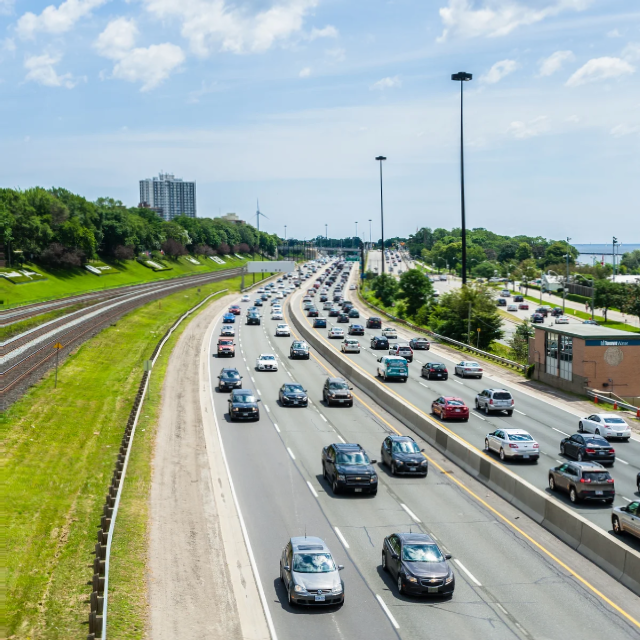
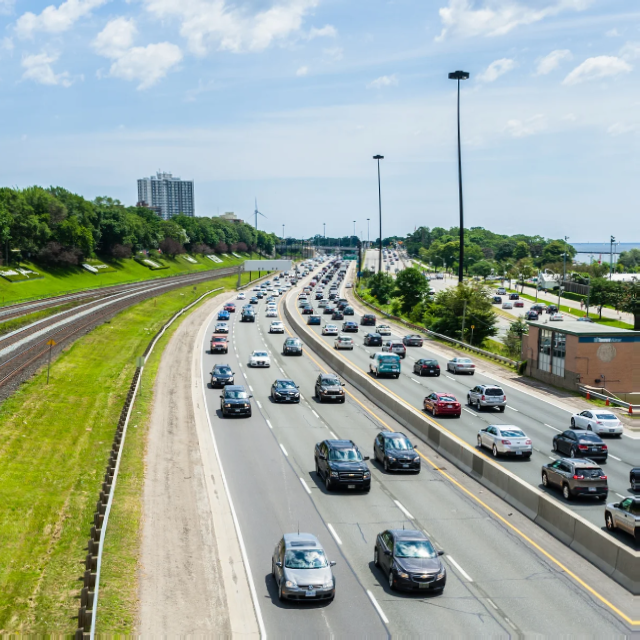
Fix the gallery override that discarded the flicker fix
The previous commit's readout-time widening never reached a rendered frame.
The gallery's variant override for ac_flicker set

    "readout_time_range_s": _span(rng, 0.008, 0.033)

— a hardcoded copy of an older library default, silently overriding the new
(0.020, 0.060). Every published frame kept rendering 0.8-3.3 bands, the
exact regime identified as illegible, while the library's tests passed
throughout because they test the library. An override that duplicates a
range the transform already owns is a copy waiting to go stale. The override
exists to alternate 50/60 Hz mains; the readout was incidental and is gone.

tests/unit/test_gallery_configs.py closes the gap: for every effect and
severity it builds the configuration the *gallery* builds, overrides
included, renders the reference photograph, and requires the median of 8
seeds to move it by at least one 8-bit level. It fails on the old override,
and would have failed on the empty-occluder bug two commits ago.

Writing that test surfaced one more thing worth fixing rather than asserting
around. Even with a corrected readout, ac_flicker's draws were bimodal —
half near zero — because the default exposure range (1-16 ms) straddles the
sinc's first null at 10 ms (50 Hz) and 8.33 ms (60 Hz), and at 60 Hz nearly
reaches the second. The default now stops at 8 ms, below the first null.

That is not a fudge to make the effect appear: a shutter shorter than one
[…]

diff --git a/tests/unit/test_gallery_configs.py b/tests/unit/test_gallery_configs.py
@@ -1,0 +1,87 @@
+"""The documentation gallery must show effects that are actually visible.
+
+Every other test here checks the library. Nothing checked the *configuration
+the gallery builds*, and that gap hid two separate bugs that reached the
+rendered images:
+
+* `housing_occluders` drew its counts from a range starting at zero, so three
+  of the five published frames were bit-identical to the input.
+* `ac_flicker`'s variant override hardcoded `readout_time_range_s`, copied
+  from an older library default. When that default was widened to get a
+  legible band count, the override silently kept the gallery on the old
+  range — so the fix never reached a single rendered frame, twice in a row,
+  while the library's own tests passed throughout.
+
+An override that duplicates a range the transform already owns is a copy
+waiting to go stale, and the only thing that catches it is rendering what the
+gallery will actually render.
+"""
+
+from __future__ import annotations
+
+from pathlib import Path
+
+import cv2
+import numpy as np
+import pytest
+
+from docs.generate_examples import EFFECTS, LEVELS, _build
+from tests.unit.test_randomization import _GroundPlaneDepth
+from weathermentations.depth.provider import SharedDepthProvider
+
+# One 8-bit level of mean absolute change, the threshold used throughout this
+# review for "this does something".
+VISIBLE_LEVELS = 1.0
+SEEDS = 8
+
+# Needs an ffmpeg binary and two subprocess round-trips per render.
+SKIP = {"video_codec"}
+
+REFERENCE_IMAGE = Path(__file__).resolve().parents[2] / "docs" / "examples" / "reference.webp"
+
+
+@pytest.fixture(scope="module")
+def scene() -> np.ndarray:
+    """The reference photograph, which is what the gallery actually renders.
+
+    Not the synthetic scene the golden tests use: this test asks whether a
+    published frame is visible, so it has to ask it of the published frame's
+    input. Effect strength genuinely depends on scene content — a
+    multiplicative effect like AC flicker moves a bright photograph further
+    than a darker synthetic one, and `DirtSoil` scatters rather than tints and
+    so is near-invisible in flat light by design.
+    """
+    image = cv2.imread(str(REFERENCE_IMAGE))
+    if image is None:  # pragma: no cover - the asset ships with the repo
+        pytest.skip(f"reference image not found at {REFERENCE_IMAGE}")
+    image = cv2.resize(image, (320, 320), interpolation=cv2.INTER_AREA)
+    return cv2.cvtColor(image, cv2.COLOR_BGR2RGB)
+
+
+@pytest.mark.parametrize("name", [n for n in EFFECTS if n not in SKIP])
+def test_gallery_configuration_renders_a_visible_effect(name: str, scene: np.ndarray) -> None:
+    """Every published cell must change the image, at every severity.
+
+    Averaged over seeds rather than asserted per seed: some effects can
+    legitimately draw themselves out of existence — an exposure landing on a
+    whole flicker period cancels AC banding exactly — and that is physics
+    worth keeping. What must not happen is a *configuration* whose typical
+    draw does nothing.
+    """
+    provider = SharedDepthProvider(_GroundPlaneDepth())
+    rng = np.random.default_rng(1234)
+    reference = scene.astype(np.float32)
+
+    for index, level in enumerate(LEVELS):
+        transform = _build(name, level, index, rng, provider)
+        deltas = []
+        for seed in range(SEEDS):
+            transform.set_random_seed(seed)
+            out = transform(image=scene)["image"].astype(np.float32)
+            deltas.append(float(np.abs(out - reference).mean()))
+        typical = float(np.median(deltas))
+        assert typical >= VISIBLE_LEVELS, (
+            f"{name} severity {level} as the gallery builds it changes the image by "
+            f"{typical:.2f} levels (median of {SEEDS} seeds) — below the visible "
+            f"threshold of {VISIBLE_LEVELS}. Values: {[round(d, 2) for d in deltas]}"
+        )

diff --git a/src/weathermentations/camera/flicker.py b/src/weathermentations/camera/flicker.py
@@ -138,9 +138,20 @@ class AcFlicker(WeatherTransform):
             photographers count it in stops, and the interval 1/1000-1/500 s
             is as large a change as 1/8-1/4 s. Drawing it uniformly puts most
             of the mass at the long end, which here is the end the sinc
-            cancels — median |sinc| 0.22 uniform against 0.76 log-uniform
-            over the default range, i.e. most frames came out with no visible
-            banding at all.
+            cancels.
+
+            The default **stops below the first null** (8 ms, against 10 ms
+            for 50 Hz mains and 8.33 ms for 60 Hz). That is not a fudge to
+            make the effect show up: a shutter shorter than one flicker period
+            is the condition under which banding is visible at all, and a
+            camera sitting on the null is a camera whose anti-flicker setting
+            is working — which is a camera you would not include in a set
+            labelled "shows flicker banding". Whether a frame flickers is
+            what ``p`` is for; this range decides how strongly it does.
+            Widen it past the null deliberately to explore cancellation, and
+            the sinc will duly cancel: median |sinc| over 1-16 ms is 0.76 at
+            50 Hz and 0.66 at 60 Hz with 17-24% of draws essentially blank,
+            against 0.88 and 0.82 with none and 7% below 1-8 ms.
         pulse_exponent_range: shape of the lamp's output over one flicker
             period, as ``|sin| ** exponent``. 1 is a gas-discharge lamp
             following the rectified current, 2 is exactly a sinusoid (an
@@ -187,7 +198,7 @@ class AcFlicker(WeatherTransform):
         self,
         mains_frequency_hz: float = 50.0,
         readout_time_range_s: tuple[float, float] = (0.020, 0.060),
-        exposure_time_range_s: tuple[float, float] = (0.001, 0.016),
+        exposure_time_range_s: tuple[float, float] = (0.001, 0.008),
         pulse_exponent_range: tuple[float, float] = (1.0, 5.0),
         modulation_depth_range: tuple[float, float] = (0.05, 0.35),
         p: float = 0.5,

diff --git a/docs/generate_examples.py b/docs/generate_examples.py
@@ -238,10 +238,16 @@ def _variant_kwargs(
     if name == "ac_flicker":
         # 50 Hz and 60 Hz mains give different band counts for the same
         # readout, so alternate rather than picking one.
-        return {
-            "mains_frequency_hz": 50.0 if index % 2 == 0 else 60.0,
-            "readout_time_range_s": _span(rng, 0.008, 0.033),
-        }
+        #
+        # Readout time is deliberately *not* overridden here. It used to be,
+        # with a hardcoded (0.008, 0.033) s copied from an older library
+        # default, and when that default was widened to (0.020, 0.060) to get
+        # a legible band count the override silently kept the gallery on the
+        # old fast range — so the fix never reached a single rendered frame.
+        # An override that duplicates a range the transform already owns is a
+        # copy waiting to go stale; vary what this variant is actually about
+        # and let the library's own range stand.
+        return {"mains_frequency_hz": 50.0 if index % 2 == 0 else 60.0}
     if name == "video_codec":
         return {"codec": "h264" if index % 2 == 0 else "h265"}
     if name == "snow":

diff --git a/docs/physical_review.md b/docs/physical_review.md
@@ -910,3 +910,59 @@ peak modulation is a real property of the output and says nothing about
 whether a human can see it. The check that would have caught it — and the one
 that did, eventually — was looking at the rendered frame at full size next to
 a clean one.
+
+## F18 — The gallery override discarded the library fix, twice
+
+F17's readout-time widening never reached a single rendered frame. The
+gallery's variant override for `ac_flicker` set
+
+    "readout_time_range_s": _span(rng, 0.008, 0.033)
+
+— a hardcoded copy of an older library default, which silently overrode the
+new (0.020, 0.060). Every published frame kept rendering **0.8–3.3 bands**,
+the exact regime F17 identified as illegible, while the library's own tests
+passed throughout because they test the library.
+
+**An override that duplicates a range the transform already owns is a copy
+waiting to go stale.** The override exists to alternate 50/60 Hz mains; the
+readout was incidental and is now gone, so the library's range stands.
+
+This is also how the same report could be right three times running. Each
+round I measured the library and the library was fine.
+
+`tests/unit/test_gallery_configs.py` closes it: for every effect and
+severity, it builds the configuration **the gallery builds** — overrides
+included — renders the reference photograph, and requires the median of 8
+seeds to move it by at least one 8-bit level. It fails on the old override,
+and it would have failed on F14's empty occluders too.
+
+Writing that test immediately surfaced one more thing worth fixing rather
+than asserting around. Even with a corrected readout, `ac_flicker`'s draws
+were bimodal — half of them near zero — because the default exposure range
+(1–16 ms) straddles the sinc's first null at 10 ms (50 Hz) and 8.33 ms
+(60 Hz), and at 60 Hz nearly reaches the second. The default now stops at
+**8 ms, below the first null**.
+
+That is not a fudge to make the effect appear. A shutter shorter than one
+flicker period is the condition under which banding exists at all, and a
+camera sitting on the null is a camera whose anti-flicker setting is
+working — not one you would put in a set labelled "shows flicker banding".
+It is the same principle as F14: **whether the effect happens is what `p` is
+for; the parameters decide how strongly.** Cancellation remains fully
+modelled, tested, and available to anyone who widens the range deliberately.
+
+| exposure range | \|sinc\| median, 50 Hz | 60 Hz | draws essentially blank |
+| --- | --- | --- | --- |
+| 1–16 ms (was) | 0.758 | 0.663 | 17–24% |
+| 1–8 ms (now) | **0.875** | **0.820** | 0% / 7% |
+
+Published frames now carry **8.0 / 15.0 / 13.8 / 22.9 / 23.0%** peak-to-peak
+across 3–6 bands, against 6.2 / 5.2 / 15.3 / 16.6 / 21.4% over 2 bands.
+
+**What this one is really about.** Three consecutive rounds of "still no
+effect" were three correct reports, and each time I verified the fix against
+the layer I had just edited rather than against the artefact the report was
+about. The library was never the thing being looked at. The rule that falls
+out is narrower than "measure more": **verify at the layer the complaint
+names.** The test now does that, so the next such regression fails in CI
+rather than in the gallery.
